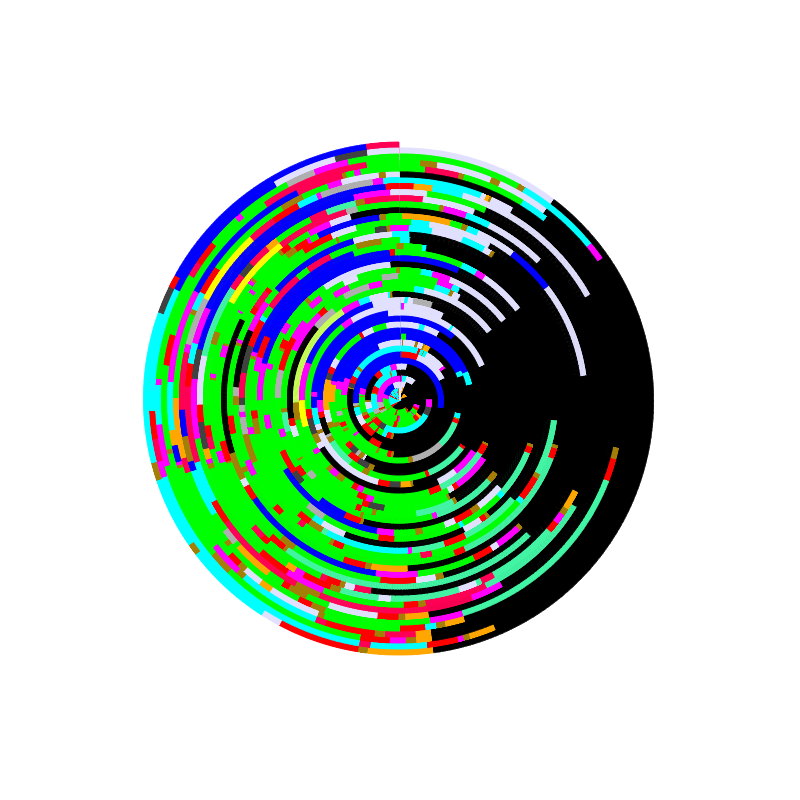
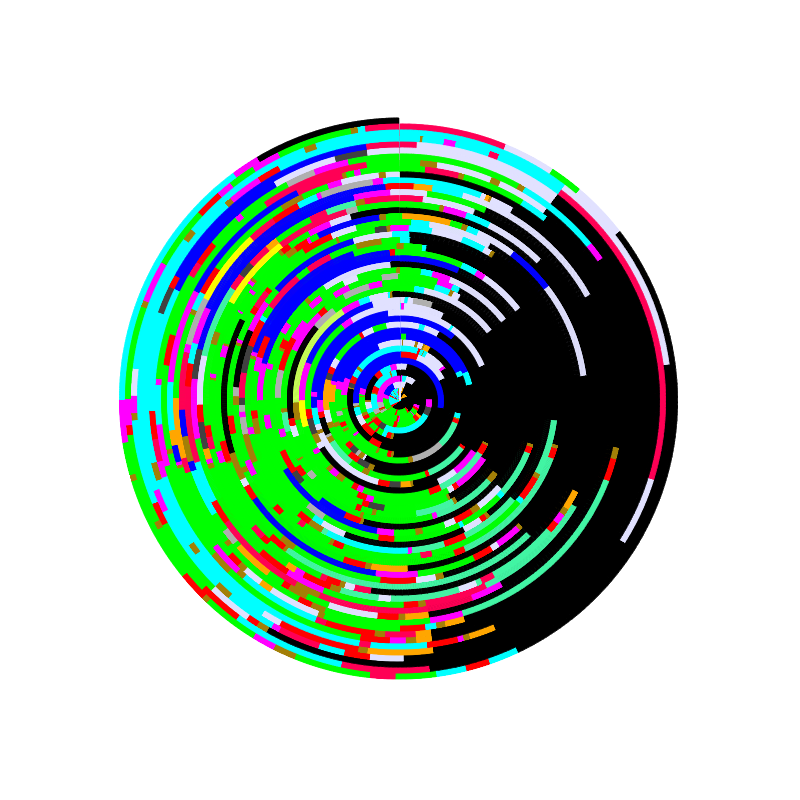
added 3/29 through 4/1

Changed region(s): [[0.125, 0.125, 0.875, 0.875]]

diff --git a/index.html b/index.html
@@ -15,13 +15,13 @@
 		</div>
 	-->
 		<div class="inputDiv">
-			<label for="cRad">Pie Radius</label><input name="cRad" id="cRad" type="number" min="0.1" max="50" step="1" value="176">
+			<label for="cRad">Pie Radius</label><input name="cRad" id="cRad" type="number" min="0.1" max="50" step="1" value="192">
 		</div>
 		<div class="inputDiv">
-			<label for="sRad">Spiral Start Radius</label><input name="sRad" id="sRad" type="number" min="0.1" max="50" step="1" value="258">
+			<label for="sRad">Spiral Start Radius</label><input name="sRad" id="sRad" type="number" min="0.1" max="50" step="1" value="282">
 		</div>
 		<div class="inputDiv">
-			<label for="eRad">Spiral End Radius</label><input name="eRad" id="eRad" type="number" min="0.1" max="50" step="1" value="264">
+			<label for="eRad">Spiral End Radius</label><input name="eRad" id="eRad" type="number" min="0.1" max="50" step="1" value="288">
 		</div>
 		<div id="buttonDiv">
 			<label>Open .png <input type="file" id="impBtn" name="impBtn" accept=".png" onchange="importCanvas();"></label>
@@ -58,13 +58,10 @@
 			var ctx2 = canvas2.getContext("2d");
 
 			var myDay = [
-			// ['00:15','social'],
-			// ['02:30','TV'],
-			// ['11:57','sleep'],
-			// ['12:27','TV'],
-			// ['12:50','eating'],
-			// ['13:13','side work'],
-			// ['','social'],
+			['02:30','sleep'],
+			['02:55','reading'],
+			['03:03','bathroom'],
+			['03:53','side work'],
 			];
 
 			var categories = {
